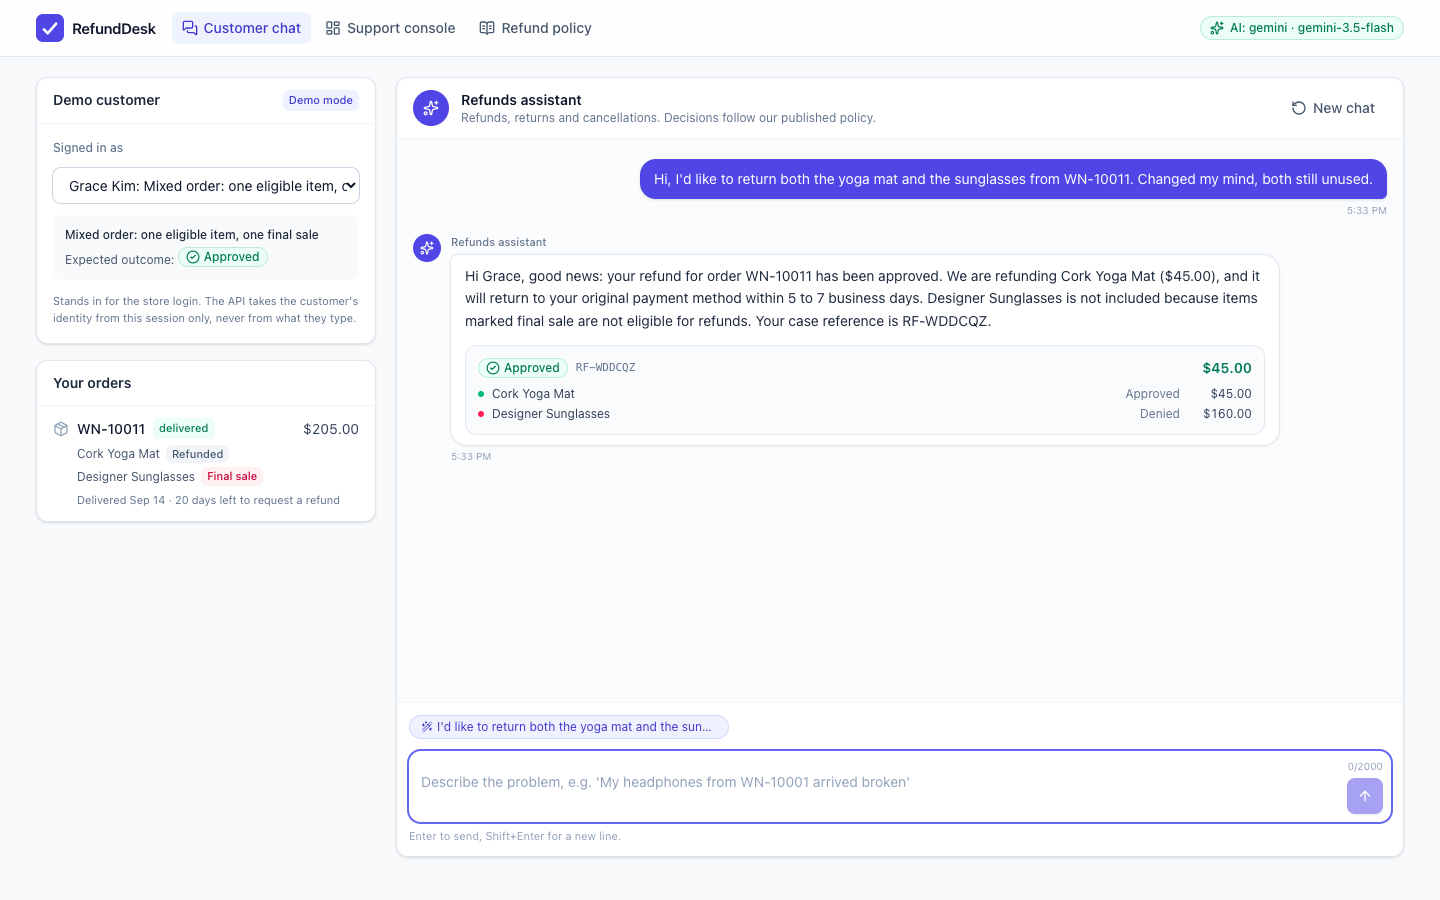
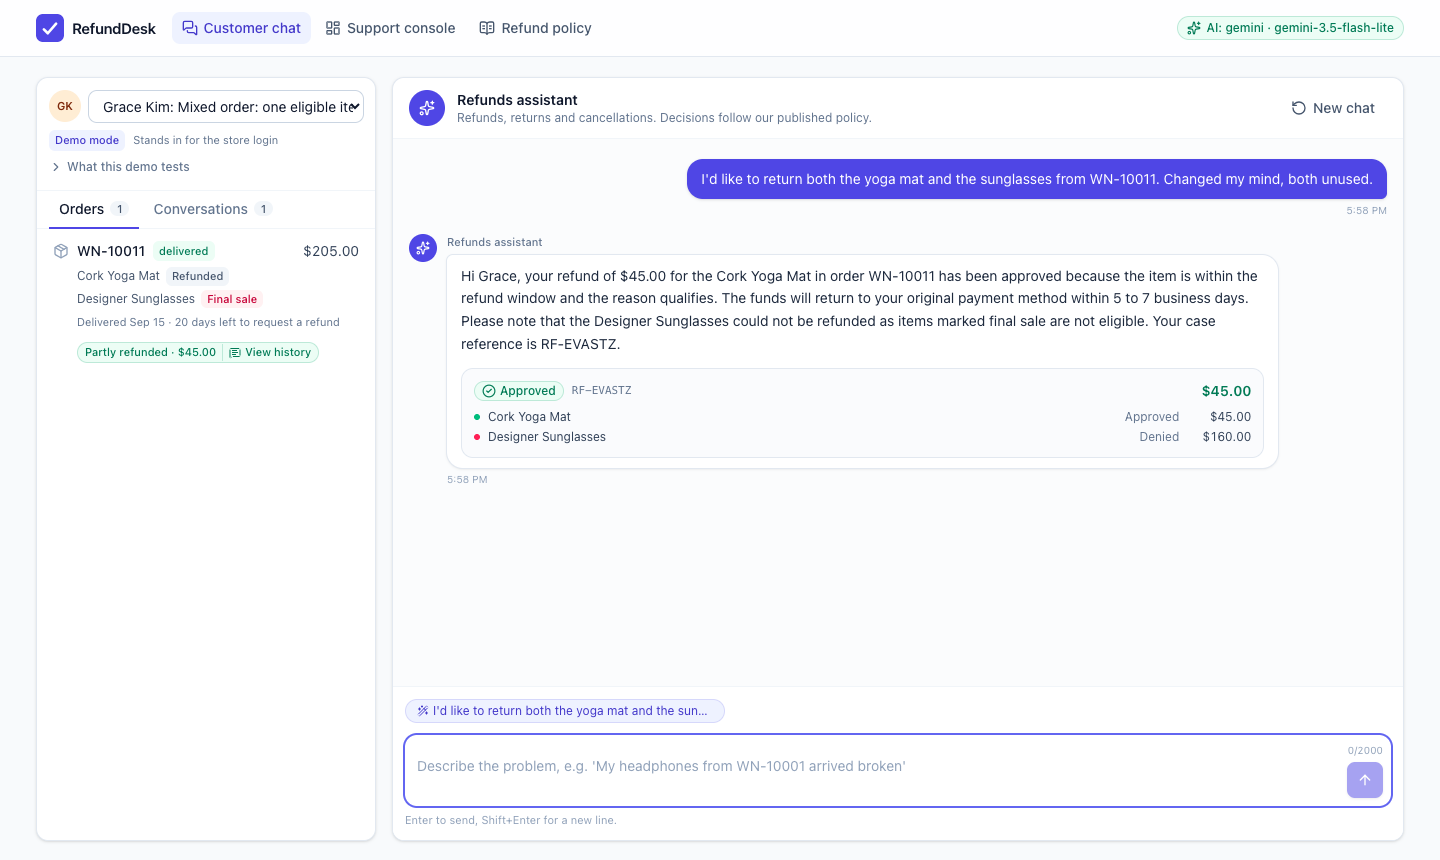
Refresh screenshots and tidy the README for submission

diff --git a/README.md b/README.md
@@ -49,7 +49,7 @@ Then open **http://localhost:8080**.
 
 **No API key is required.** Without one, the app runs in **offline mode**: keyword heuristics extract the request and templates write the replies. Every feature, decision, and security control works the same, so you can evaluate the whole product immediately. The header shows which mode is active.
 
-The database migrates and seeds itself on first boot, including **a week of sample activity** so the console is populated from the start: about 20 cases from background customers covering approvals, denials, specialist reviews, a cross-account attempt and prompt injections. They are produced by running real requests through the real pipeline (offline, no model quota) and moving their timestamps into the past. They are separate from the 15 demo personas below, so every persona's suggested prompts behave as documented. Use **Reset demo data** in the console to start fresh at any time.
+The database migrates and seeds itself on first boot, including **a week of sample activity** so the console is populated from the start: about 20 cases from background customers covering approvals, denials, specialist reviews, a cross-account attempt and prompt injections. They are produced by running real requests through the real pipeline (offline, no model quota) and moving their timestamps into the past. They are separate from the 15 demo personas below, so every persona's suggested prompts behave as documented. Use **Reset demo** in the console to start fresh at any time.
 
 ## Enabling the AI model
 
@@ -239,10 +239,11 @@ The engine takes the active policy as a parameter (thresholds plus custom rules)
 
 - **Gemini** (`gemini-3.5-flash-lite` by default, chosen for speed): `generateContent` with a JSON Schema generated from the Zod schemas, so the output is constrained at decode time, then re-validated with Zod before anything uses it. Thinking is set to minimal and prompts are compact, because classifying a message and wording a short reply need no extended reasoning. Requests move down a model chain on quota or capacity errors (each model has its own quota), and each attempt has an 8 second budget. A per-model **circuit breaker** pauses a failing model (for Google's suggested retry delay, or an hour when a daily quota is spent), so customers never wait on a model that is known to be down. If the model fails while reading a message, the reply for that message comes straight from a template rather than waiting on the model a second time; with the model fully down, a customer still gets a correct answer in about 2 seconds. The reply has its own 2.5 second budget: if the model has not worded it by then, the template reply is sent at once. The case trace records which model answered.
 
-**Speed.** Measured on a modest 8 GB laptop: a message answered by Gemini takes about 2.5 to 4.5 seconds end to end; screens are usable in under 1.3 seconds on first visit and about 0.4 seconds afterwards; opening a case takes about 0.1 seconds because it is preloaded on hover. The chat reuses data the server already returned instead of refetching, API connections are kept warm, and routine polling is not logged.
 - **Offline**: keyword heuristics and templates. It is the default when no key is set, and the **automatic fallback** when the model times out, errors, is blocked, or returns unparseable output. The fallback is recorded in the case trace, so degraded decisions stay visible.
 
 The customer is never left without an answer, and the decision is identical either way, because it never depended on the model. The interface also keeps the model swappable: moving to another vendor means one new adapter, with no change to the pipeline, engine, or security layers.
+
+**Speed.** Measured on a modest 8 GB laptop: a message answered by Gemini takes about 2.5 to 4.5 seconds end to end; screens are usable in under 1.3 seconds on first visit and about 0.4 seconds afterwards; opening a case takes about 0.1 seconds because it is preloaded on hover. The chat reuses data the server already returned instead of refetching, API connections are kept warm, and routine polling is not logged.
 
 ---
 
@@ -320,7 +321,7 @@ All routes are under `/api`. Customer routes need a customer token; admin routes
 | POST | `/conversations` | customer | Start a conversation |
 | GET | `/refunds` | customer | The customer's refunds: amount, date, items, how it was decided, and the case and conversation it came from |
 | GET | `/conversations` | customer | Earlier enquiries with a customer-safe outcome for each case (no risk or rule detail) |
-| GET | `/conversations/current` | customer | Resume the latest conversation |
+| GET | `/conversations/current` | customer | Resume a conversation active in the last 12 hours, or start a new one |
 | GET | `/conversations/:id/messages` | customer | Messages (owner only) |
 | POST | `/conversations/:id/messages` | customer | **Send a message and run the pipeline** |
 | GET | `/admin/stats` | admin | Dashboard metrics; `days` = 7, 30 or 90 |
